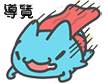
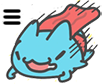
upda

Changed region(s): [[0.0278, 0.0238, 0.3333, 0.3095]]

diff --git a/capoo/index.html b/capoo/index.html
@@ -121,7 +121,7 @@
 
         a {
             text-decoration: none;
-            color: rgb(22, 40, 59);
+            color: rgb(8, 15, 22);
 
         }
 
@@ -378,11 +378,6 @@
             }
         }
 
-        @media (max-width: 900px) {
-            li {
-                font-size: 14px;
-            }
-        }
 
         @media (max-width: 768px) {
             .author {
@@ -420,7 +415,7 @@
 
             ul li {
                 padding: 0;
-
+                font-size: 20px;
             }
 
             .comic_relative {
